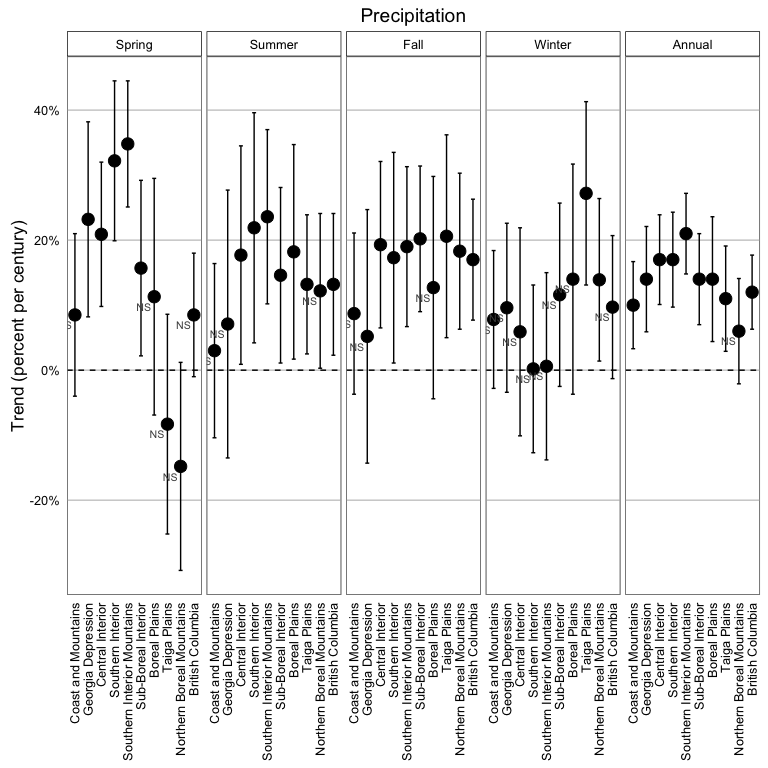
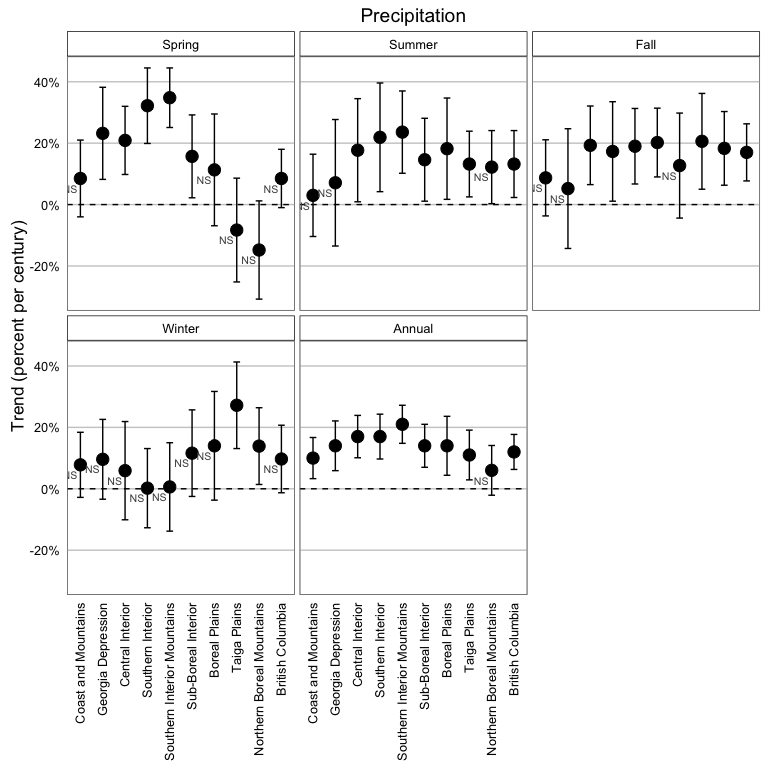
Update examples

diff --git a/README.md b/README.md
@@ -17,10 +17,17 @@ Utilisation
 library(cccharts)
 #> Loading required package: ggplot2
 
-plot_trend_estimates(cccharts::precipitation, x = "Ecoprovince", facet = "Season")
+plot_trend_estimates(cccharts::precipitation, x = "Ecoprovince", facet = "Season", nrow = 2)
 ```
 
 ![](README-unnamed-chunk-2-1.png)
+
+``` r
+plot_trend_observed(cccharts::flow_station_timing, cccharts::flow_station_timing_observed, 
+                    facet = "Station", nrow = 2)
+```
+
+![](README-unnamed-chunk-3-1.png)
 
 To generate all plot files (creates a folder in the working directory called `cccharts`).
 
